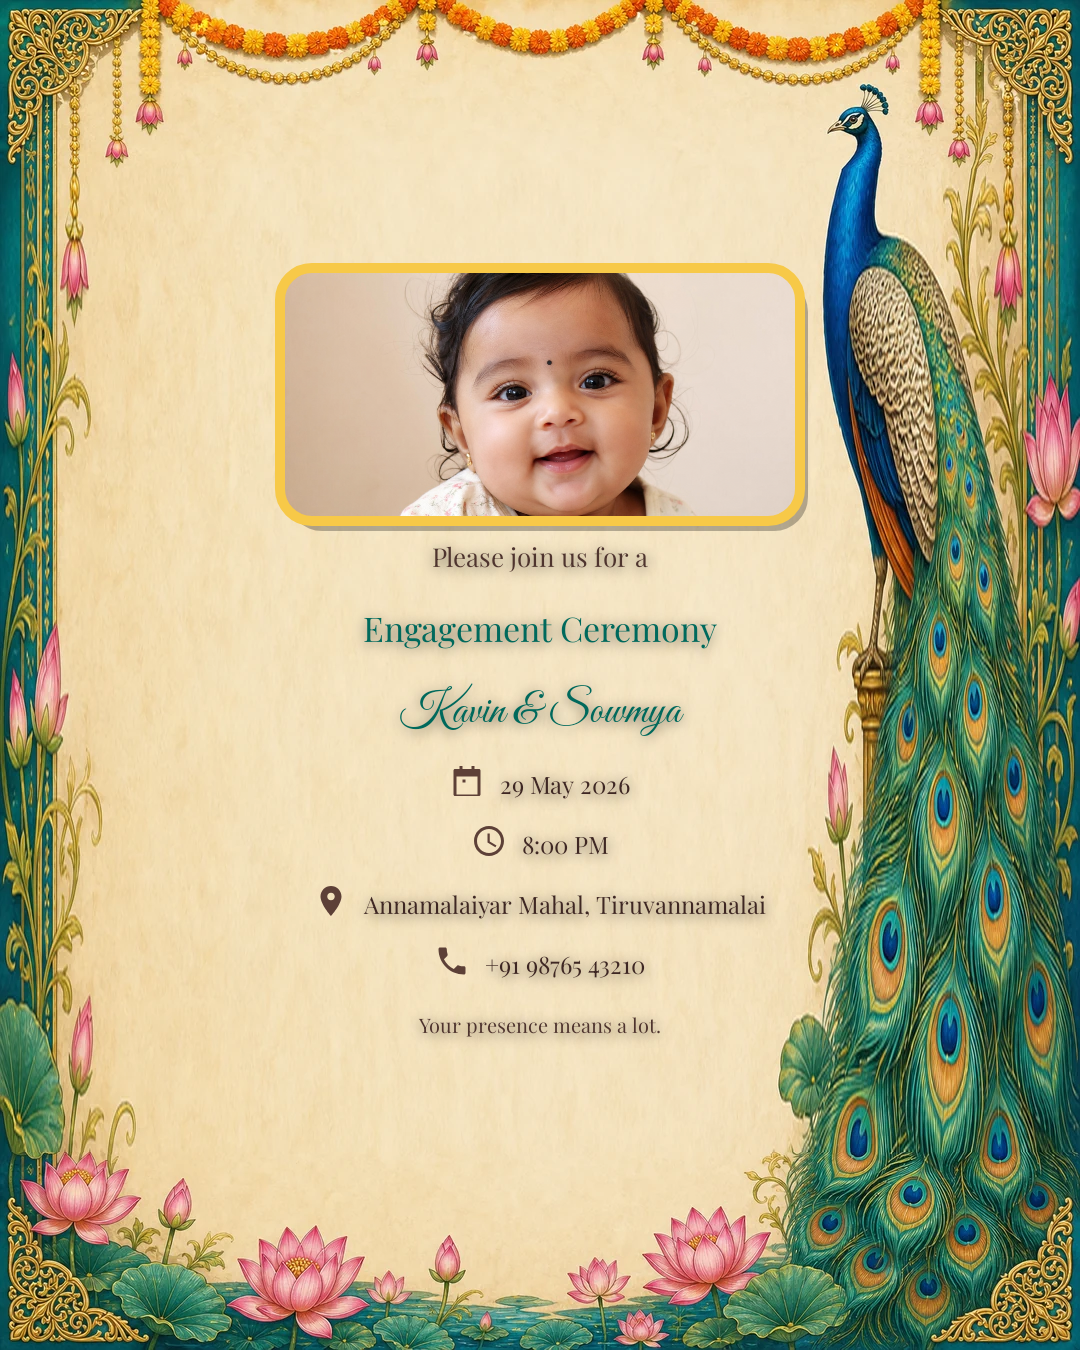
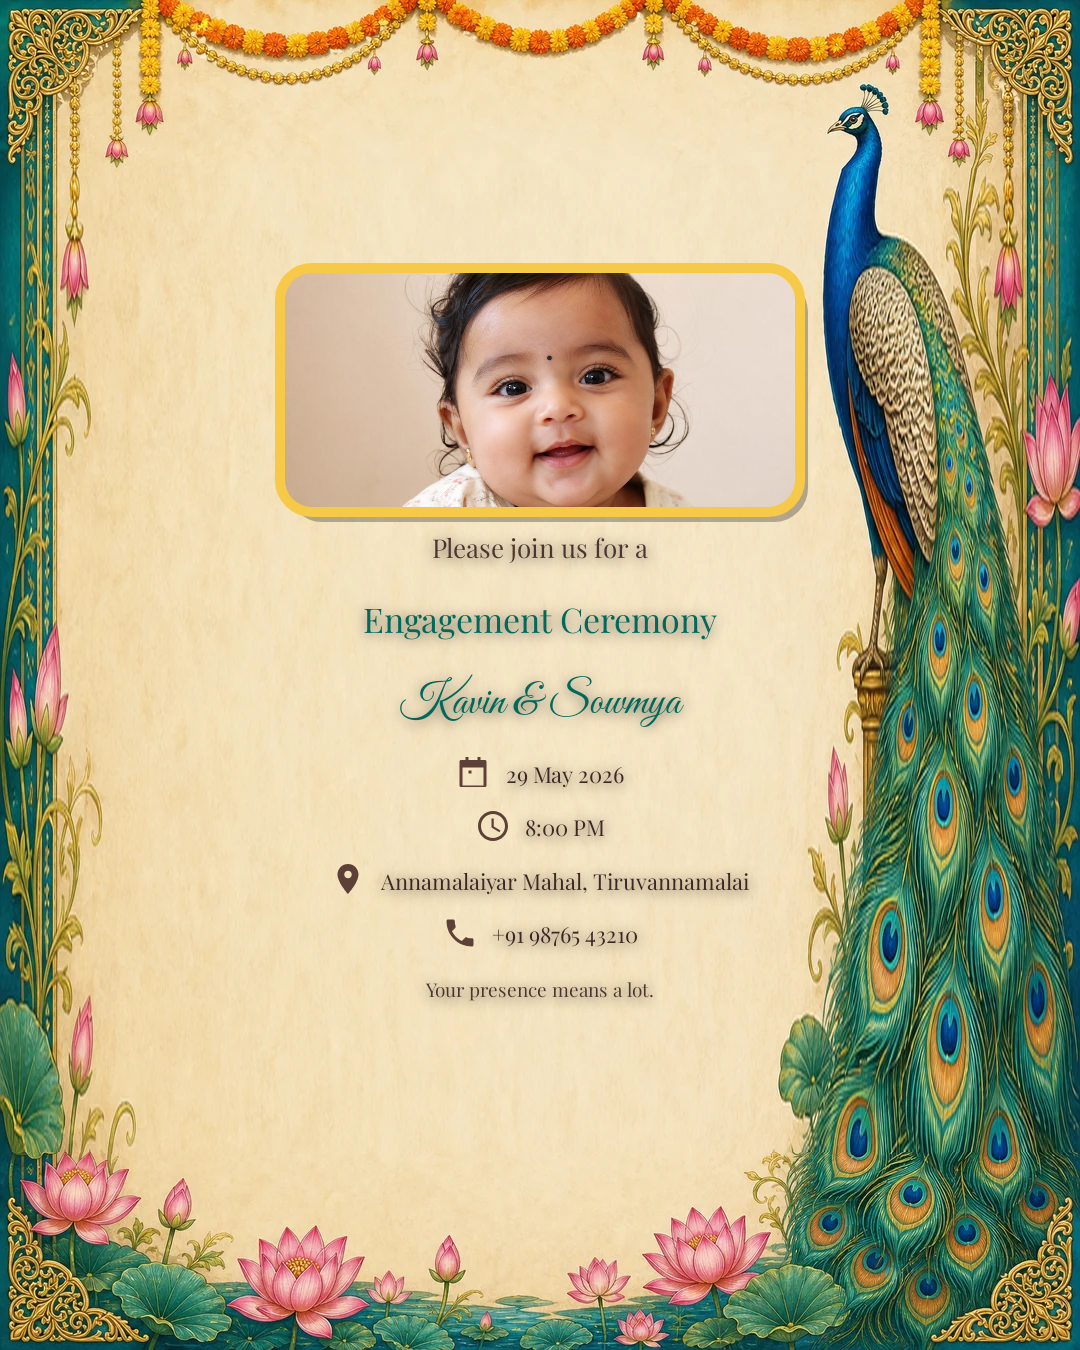
Allow venue and message to wrap on two lines in generated cards
- Remove compact-layout cap that forced venue to a single line
- Extend photo-card and tight-template text zones for 2-line venue + message
- Use template messageBottom for additional message placement
- Slightly tighten compact detail spacing and photo-card photo height
- Add VenueMessageWrapRenderTest for multi-line venue and message

Changed region(s): [[0.2444, 0.1867, 0.7639, 0.7778]]

diff --git a/app/src/main/java/com/vaangainvite/core/image/InvitationImageGenerator.kt b/app/src/main/java/com/vaangainvite/core/image/InvitationImageGenerator.kt
@@ -228,13 +228,13 @@ class InvitationImageGenerator(private val context: Context) {
         val isPeacockWithPhoto = isPeacockVase && hasUploadedPhoto
         val compactLayout = (hasUploadedPhoto && hasUserMessage) || isPeacockVase || compactPhotoLayout
         val detailRowSpacing = when {
-            isPeacockWithPhoto -> 4f
-            compactPhotoLayout -> 4f
+            isPeacockWithPhoto -> 3f
+            compactPhotoLayout -> 3f
             else -> InvitationLayout.Spacing.betweenDetails
         }
         val messageGap = when {
-            isPeacockWithPhoto -> 8f
-            compactPhotoLayout -> 8f
+            isPeacockWithPhoto -> 6f
+            compactPhotoLayout -> 6f
             else -> InvitationLayout.Spacing.beforeMessageNoPhoto
         }
 
@@ -271,7 +271,9 @@ class InvitationImageGenerator(private val context: Context) {
         )
         val bodyPaint = textPaint(
             palette.bodyColor,
-            if (compactLayout || isPeacockVase || compactPhotoLayout) 24f else 28f,
+            if (compactPhotoLayout) 22f
+            else if (compactLayout || isPeacockVase) 24f
+            else 28f,
             when (language) {
                 InvitationLanguage.TAMIL -> tamilTypeface
                 InvitationLanguage.ENGLISH -> serifTypeface()
@@ -281,7 +283,7 @@ class InvitationImageGenerator(private val context: Context) {
         val messagePaint = textPaint(
             palette.messageColor,
             when {
-                compactPhotoLayout -> 20f
+                compactPhotoLayout -> 19f
                 usesPhotoBackground -> 24f
                 else -> 26f
             },
@@ -355,7 +357,6 @@ class InvitationImageGenerator(private val context: Context) {
             maxLines = 1,
             rowSpacing = detailRowSpacing
         )
-        val venueMaxLines = if (compactPhotoLayout) 1 else InvitationDetails.VENUE_MAX_LINES
         blockTop = drawDetailWithIcon(
             canvas = canvas,
             iconResId = R.drawable.ic_invite_location,
@@ -364,7 +365,7 @@ class InvitationImageGenerator(private val context: Context) {
             topY = blockTop,
             zone = zone,
             iconTint = palette.iconTint,
-            maxLines = venueMaxLines,
+            maxLines = InvitationDetails.VENUE_MAX_LINES,
             rowSpacing = detailRowSpacing
         )
         if (details.mobileNumber.isNotBlank()) {
@@ -388,6 +389,7 @@ class InvitationImageGenerator(private val context: Context) {
 
         val messageResult = drawAdditionalMessage(
             canvas = canvas,
+            templateId = template.id,
             text = messageText,
             paint = messagePaint,
             blockTopAfterLastDetail = blockTop,
@@ -416,6 +418,7 @@ class InvitationImageGenerator(private val context: Context) {
      */
     private fun drawAdditionalMessage(
         canvas: Canvas,
+        templateId: String,
         text: String,
         paint: Paint,
         blockTopAfterLastDetail: Float,
@@ -429,7 +432,7 @@ class InvitationImageGenerator(private val context: Context) {
         val messageStartY = blockTopAfterLastDetail -
             detailRowSpacing +
             gapBeforeMessage
-        val maxBottomY = zone.bottom - 8f
+        val maxBottomY = InvitationLayout.messageMaxBottomY(templateId, zone)
         val availableHeight = maxBottomY - messageStartY
         if (availableHeight < 18f) {
             return MessageDrawResult(shown = false, truncated = false)

diff --git a/app/src/main/java/com/vaangainvite/core/image/InvitationLayout.kt b/app/src/main/java/com/vaangainvite/core/image/InvitationLayout.kt
@@ -43,9 +43,9 @@ internal object InvitationLayout {
         right = 880f,
         topNoPhoto = 518f,
         topWithPhoto = 494f,
-        // Cream panel above bottom diyas/toran — text can sit lower on photo cards.
-        bottom = 1185f,
-        messageBottom = 1150f,
+        // Cream panel above bottom diyas/toran.
+        bottom = 1205f,
+        messageBottom = 1185f,
         photoTextGap = 14f,
         topInset = 4f
     )
@@ -66,8 +66,9 @@ internal object InvitationLayout {
             topNoPhoto = 415f,
             topWithPhoto = 528f,
             bottom = 1240f,
-            messageBottom = 1160f,
-            topInset = 10f
+            messageBottom = 1190f,
+            topInset = 10f,
+            photoTextGap = 10f
         ),
         "wedding_05" to TextZoneSpec(
             left = 200f,
@@ -76,8 +77,8 @@ internal object InvitationLayout {
             topNoPhoto = 328f,
             topWithPhoto = 496f,
             // Vase panel stays wide until ~y1160.
-            bottom = 1170f,
-            messageBottom = 1135f,
+            bottom = 1185f,
+            messageBottom = 1150f,
             topInset = 4f,
             photoTextGap = 6f
         ),
@@ -87,8 +88,9 @@ internal object InvitationLayout {
             topNoPhoto = 430f,
             topWithPhoto = 538f,
             bottom = 1240f,
-            messageBottom = 1160f,
-            topInset = 10f
+            messageBottom = 1195f,
+            topInset = 10f,
+            photoTextGap = 10f
         ),
         "housewarming_05" to TextZoneSpec(left = 220f, right = 860f, topNoPhoto = 292f, topWithPhoto = 492f),
         "puberty_01" to TextZoneSpec(
@@ -96,8 +98,8 @@ internal object InvitationLayout {
             right = 830f,
             topNoPhoto = 280f,
             topWithPhoto = 494f,
-            bottom = 1145f,
-            messageBottom = 1110f,
+            bottom = 1180f,
+            messageBottom = 1145f,
             photoTextGap = 12f
         ),
         // Engagement — continuous cream panel; text flows below photo (no divider line)
@@ -122,11 +124,11 @@ internal object InvitationLayout {
         // Lower/wider slot inside the temple arch cream panel.
         "wedding_02" to RectF(360f, 308f, 720f, 498f),
         // Below sacred-knot medallions on the thali motif card.
-        "wedding_04" to RectF(360f, 410f, 720f, 530f),
+        "wedding_04" to RectF(360f, 410f, 720f, 508f),
         // Narrow upper cream panel on the peacock crest card.
         "wedding_05" to RectF(420f, 360f, 660f, 490f),
         // Below mango-toran band on the gopuram doorway card.
-        "housewarming_03" to RectF(350f, 360f, 730f, 530f)
+        "housewarming_03" to RectF(350f, 360f, 730f, 492f)
     )
 
     /** Default compact slot for birthday, puberty, and most housewarming templates. */
@@ -138,6 +140,12 @@ internal object InvitationLayout {
     private val defaultPhotoFrameBase = compactDefaultPhotoFrame
     private var defaultPhotoFrameOverride: RectF? = null
     private val templatePhotoFrameOverrides = mutableMapOf<String, RectF>()
+
+    fun messageMaxBottomY(templateId: String, zone: RectF): Float {
+        val spec = templateTextZones[templateId]
+        val bottom = spec?.messageBottom ?: (zone.bottom - 20f)
+        return bottom - 4f
+    }
 
     fun photoAspectRatio(templateId: String): Float {
         val frame = photoFrame(templateId)

diff --git a/app/src/test/java/com/vaangainvite/core/image/VenueMessageWrapRenderTest.kt b/app/src/test/java/com/vaangainvite/core/image/VenueMessageWrapRenderTest.kt
@@ -1,0 +1,75 @@
+package com.vaangainvite.core.image
+
+import android.net.Uri
+import androidx.test.core.app.ApplicationProvider
+import com.vaangainvite.data.model.InvitationDetails
+import com.vaangainvite.data.model.InvitationLanguage
+import com.vaangainvite.data.repository.TemplateRepository
+import org.junit.Assert.assertFalse
+import org.junit.Assert.assertTrue
+import org.junit.Test
+import org.junit.runner.RunWith
+import org.robolectric.RobolectricTestRunner
+import org.robolectric.annotation.GraphicsMode
+import java.io.File
+import java.io.FileOutputStream
+
+@RunWith(RobolectricTestRunner::class)
+@GraphicsMode(GraphicsMode.Mode.NATIVE)
+class VenueMessageWrapRenderTest {
+
+    @Test
+    fun photoCardShowsWrappedVenueAndMessage() {
+        assertRendersOk(
+            templateId = "babyshower_01",
+            details = InvitationDetails(
+                occasionTitle = "Baby Shower",
+                name = "Meena",
+                date = "27 Jun 2026",
+                time = "12 PM",
+                venue = "Annamalaiyar Mahal, Tiruvannamalai Town\nSecond Floor Hall",
+                mobileNumber = "953928465959",
+                message = "Looking forward to celebrating\nwith all of you soon"
+            )
+        )
+    }
+
+    @Test
+    fun birthdayWithPhotoShowsWrappedVenueAndMessage() {
+        assertRendersOk(
+            templateId = "birthday_01",
+            details = InvitationDetails(
+                occasionTitle = "Birthday Celebration",
+                name = "Arjun",
+                date = "15 Jun 2026",
+                time = "6 PM",
+                venue = "Sri Lakshmi Convention Centre, Coimbatore\nRS Puram Main Road",
+                message = "Your presence will make\nthe day special for us"
+            )
+        )
+    }
+
+    private fun assertRendersOk(templateId: String, details: InvitationDetails) {
+        val context = ApplicationProvider.getApplicationContext<android.content.Context>()
+        val generator = InvitationImageGenerator(context)
+        val template = TemplateRepository().templateById(templateId)!!
+        val report = generator.createInvitationBitmap(
+            template = template,
+            details = details,
+            language = InvitationLanguage.ENGLISH,
+            uploadedPhotoUri = copySamplePhoto(context.cacheDir)
+        ).renderReport
+        assertTrue("$templateId message not shown", report.messageShown)
+        assertFalse("$templateId message truncated", report.messageTruncated)
+    }
+
+    private fun copySamplePhoto(cacheDir: File): Uri {
+        val outFile = File(cacheDir, "venue_message_wrap.png")
+        if (!outFile.exists()) {
+            val stream = javaClass.classLoader!!.getResourceAsStream("samples/couple_portrait.png")
+                ?: error("Missing test resource samples/couple_portrait.png")
+            FileOutputStream(outFile).use { out -> stream.copyTo(out) }
+        }
+        return Uri.fromFile(outFile)
+    }
+}

diff --git a/app/src/test/java/com/vaangainvite/core/image/AllCategoriesPhotoBoundsTest.kt b/app/src/test/java/com/vaangainvite/core/image/AllCategoriesPhotoBoundsTest.kt
@@ -61,7 +61,7 @@ class AllCategoriesPhotoBoundsTest {
         )
         InvitationLayout.setTemplatePhotoFrameForTests(
             "wedding_04",
-            RectF(300f, 410f, 780f, 530f)
+            RectF(300f, 410f, 780f, 508f)
         )
         InvitationLayout.setTemplatePhotoFrameForTests(
             "wedding_05",
@@ -76,16 +76,19 @@ class AllCategoriesPhotoBoundsTest {
     fun housewarmingGopuramExpandedWideFitsMaxText() {
         InvitationLayout.setTemplatePhotoFrameForTests(
             "housewarming_03",
-            RectF(300f, 360f, 780f, 530f)
+            RectF(300f, 360f, 780f, 492f)
         )
         assertMaxTextOk("housewarming_03", label = "expanded-gopuram")
     }
 
     @Test
     fun tallDefaultFrameTruncatesMaxLengthMessage() {
-        InvitationLayout.setDefaultPhotoFrameForTests(RectF(340f, 248f, 740f, 598f))
+        InvitationLayout.setDefaultPhotoFrameForTests(RectF(340f, 248f, 740f, 750f))
         val report = render("birthday_01")
-        assertTrue(report.messageTruncated)
+        assertTrue(
+            "expected truncation or no room for message",
+            report.messageTruncated || !report.messageShown
+        )
     }
 
     private fun assertMaxTextOk(templateId: String, label: String) {

diff --git a/app/src/main/java/com/vaangainvite/core/image/PhotoCardPlacement.kt b/app/src/main/java/com/vaangainvite/core/image/PhotoCardPlacement.kt
@@ -28,7 +28,7 @@ internal object PhotoCardPlacement {
      * Taller portrait-friendly frame on the cream panel (~520×268).
      * Uses extra vertical space above bottom décor; text zone extended in [InvitationLayout].
      */
-    val tallFramedPhoto = RectF(280f, 268f, 800f, 521f)
+    val tallFramedPhoto = RectF(280f, 268f, 800f, 512f)
 
     val framedPhoto = tallFramedPhoto
 
